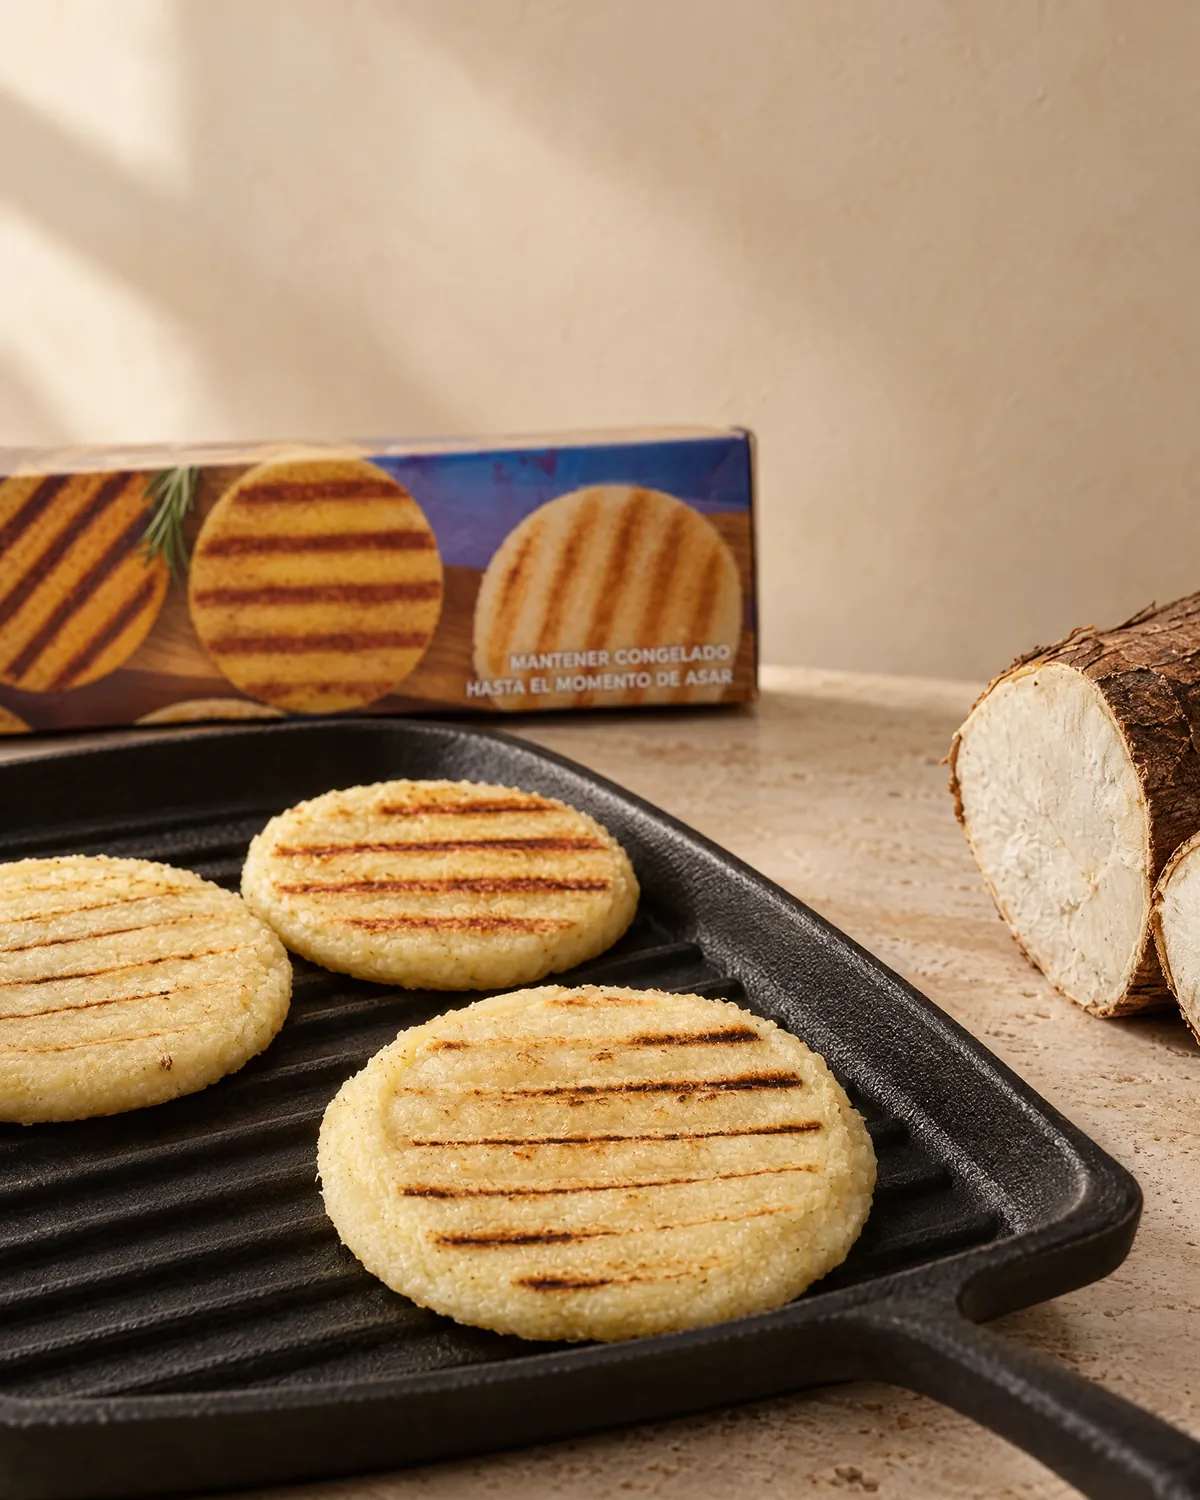
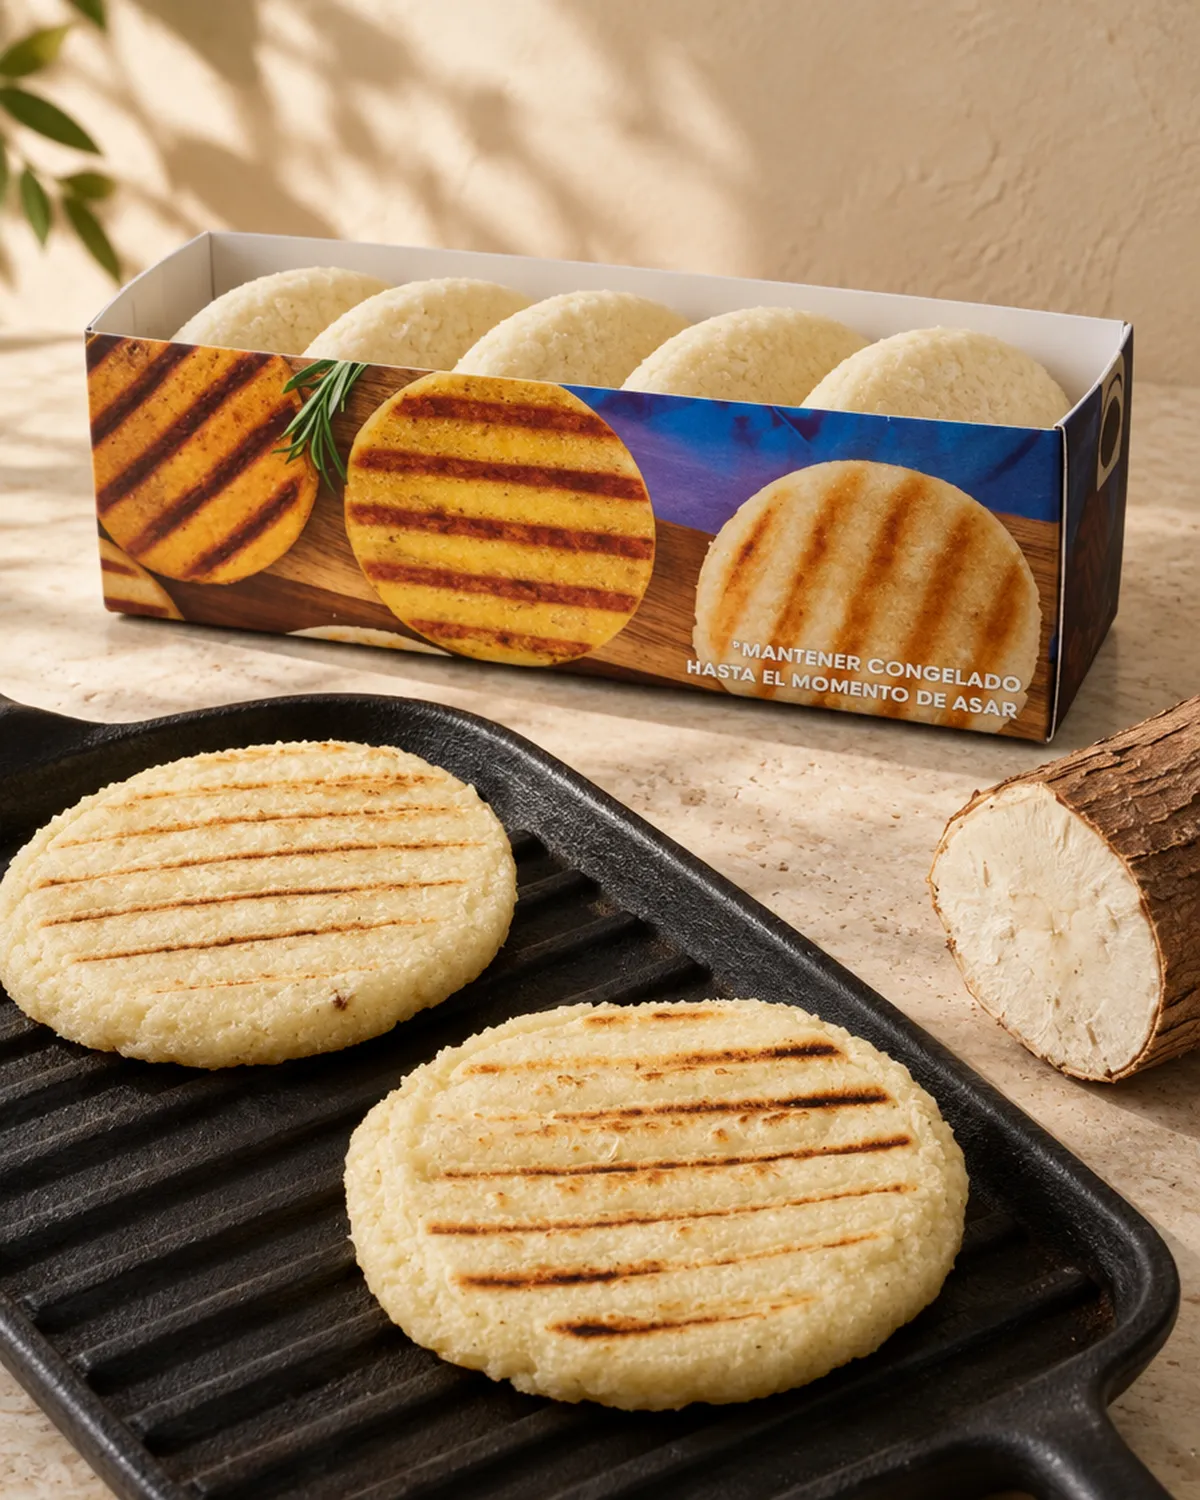
Fix the arepa packs, refresh the menu photos and tone down the address
- The arepa photos now show the real pack: an open white tray with the
  raw arepas inside and the printed sleeve around it, not a closed box.
- The products menu shows each product's studio shot and loads its
  photos right away, so no tile opens empty.
- 'De nuestra cocina' becomes 'Para cada antojo'.
- La Chorrera is no longer pitched in the hero, the footer headline or
  the meta description; the plant address sits in the footer's small
  print instead.

Claude-Session: https://claude.ai/code/session_01GmmAWFHkteyoXDuRLpatpS

diff --git a/fresh-lovers/src/components/Header.tsx b/fresh-lovers/src/components/Header.tsx
@@ -8,6 +8,7 @@ import { Logo } from "./Logo";
 import { WhatsAppIcon, InstagramIcon, ArrowIcon } from "./Icons";
 import { ProductPhoto } from "./ProductPhoto";
 import { categories, products, type CategorySlug, type Product } from "@/data/catalog";
+import type { PhotoKey } from "@/data/photos";
 import { instagramLink, site, whatsappLink } from "@/data/site";
 
 const EASE = [0.16, 1, 0.3, 1] as const;
@@ -21,7 +22,7 @@ const inCategory = (slug: CategorySlug) => products.filter((p) => p.category ===
 
 /* ───────────────────────── desktop mega menu ───────────────────────── */
 
-type Card = { key: string; href: string; product: Product; variant: number; title: string; sub: string };
+type Card = { key: string; href: string; product: Product; variant: number; title: string; sub: string; photo?: PhotoKey };
 
 /** How a category opens in the menu:
  *  - "lines": several product lines with flavours (Yogurt) → extra column of lines, flavours on the right
@@ -50,6 +51,7 @@ const productCards = (list: Product[]): Card[] =>
     href: `/productos/${p.slug}`,
     product: p,
     variant: 0,
+    photo: p.image,
     title: p.name,
     sub: p.variants.length > 1 ? `${p.variants.length} sabores / variedades` : p.sizes[0],
   }));
@@ -162,7 +164,9 @@ function MegaMenu({ active, setActive, close }: { active: CategorySlug; setActiv
                     <ProductPhoto
                       product={c.product}
                       variant={c.variant}
+                      photo={c.photo}
                       fill
+                      eager
                       sizes="200px"
                       className="transition-transform duration-700 ease-[var(--ease-out)] group-hover:scale-[1.06]"
                     />
@@ -402,7 +406,7 @@ export function Header() {
                                   <li key={p.slug}>
                                     <Link href={`/productos/${p.slug}`} onClick={closeAll} className="flex items-center gap-3 py-2">
                                       <span className="relative block h-12 w-12 shrink-0 overflow-hidden rounded-xl" style={{ backgroundColor: c.bg }}>
-                                        <ProductPhoto product={p} fill sizes="48px" />
+                                        <ProductPhoto product={p} photo={p.image} fill eager sizes="48px" />
                                       </span>
                                       <span className="text-[0.98rem] text-paper/90">{p.name}</span>
                                     </Link>

diff --git a/fresh-lovers/src/components/ProductPhoto.tsx b/fresh-lovers/src/components/ProductPhoto.tsx
@@ -17,6 +17,8 @@ type Props = {
   className?: string;
   sizes?: string;
   priority?: boolean;
+  /** load right away instead of when scrolled near (menus open instantly) */
+  eager?: boolean;
   /** fill the parent box (parent must be positioned) */
   fill?: boolean;
   /** show this photo instead of the variant/product default */
@@ -29,7 +31,7 @@ export function shotsFor(p: Product, variant = 0): PhotoKey[] {
   return [...new Set([v?.photo, p.image].filter((k): k is PhotoKey => !!k))];
 }
 
-export function ProductPhoto({ product: p, variant = 0, className = "", sizes = "(min-width: 768px) 33vw, 80vw", priority, fill, photo }: Props) {
+export function ProductPhoto({ product: p, variant = 0, className = "", sizes = "(min-width: 768px) 33vw, 80vw", priority, eager, fill, photo }: Props) {
   const ph = photo ? { ...photos[photo], kind: "photo" as const } : photoFor(p, variant);
   if (!ph) return null;
   const v = p.variants[Math.min(variant, p.variants.length - 1)];
@@ -37,8 +39,8 @@ export function ProductPhoto({ product: p, variant = 0, className = "", sizes = 
   // label art (Yogurt Griego) is shown whole on its colour; photos fill the frame
   const fit = ph.kind === "label" ? "object-contain p-[8%]" : "object-cover";
   return fill ? (
-    <Image src={ph.src} alt={alt} fill sizes={sizes} priority={priority} className={`${fit} ${className}`} />
+    <Image src={ph.src} alt={alt} fill sizes={sizes} priority={priority} loading={eager && !priority ? "eager" : undefined} className={`${fit} ${className}`} />
   ) : (
-    <Image src={ph.src} alt={alt} width={ph.w} height={ph.h} sizes={sizes} priority={priority} className={`${fit} ${className}`} />
+    <Image src={ph.src} alt={alt} width={ph.w} height={ph.h} sizes={sizes} priority={priority} loading={eager && !priority ? "eager" : undefined} className={`${fit} ${className}`} />
   );
 }

diff --git a/fresh-lovers/src/components/Footer.tsx b/fresh-lovers/src/components/Footer.tsx
@@ -7,9 +7,8 @@ export function Footer() {
     <footer className="relative overflow-hidden bg-ink text-paper">
       <div className="gutter grid gap-12 pb-10 pt-20 md:grid-cols-12 md:pt-28">
         <div className="md:col-span-5">
-          <p className="kicker text-paper/50">— {site.tagline} —</p>
-          <p className="font-display mt-6 max-w-md text-3xl leading-tight md:text-4xl">
-            Hecho en La Chorrera. <em>Desde {site.since}.</em>
+          <p className="font-display max-w-md text-3xl leading-tight md:text-4xl">
+            Yogurt, quesos, labne y arepas. <em>Calidad y sabor.</em>
           </p>
         </div>
         <nav aria-label="Categorías" className="md:col-span-3">
@@ -43,14 +42,6 @@ export function Footer() {
               </a>
             </li>
           </ul>
-          <p className="kicker mb-3 mt-8 text-paper/50">Planta</p>
-          <address className="text-[0.95rem] not-italic text-paper/85">
-            {site.legalName}
-            <br />
-            {site.plant.line1}
-            <br />
-            {site.plant.line2}
-          </address>
         </div>
       </div>
 
@@ -63,7 +54,7 @@ export function Footer() {
 
       <div className="gutter flex flex-col gap-2 border-t border-paper/10 py-6 pb-24 text-xs text-paper/50 md:flex-row md:items-center md:justify-between md:pb-6">
         <p>
-          © {new Date().getFullYear()} {site.legalName} · Panamá
+          © {new Date().getFullYear()} {site.legalName} · {site.plant.line1}, {site.plant.line2}
         </p>
         <p>Kashrut bajo supervisión de {site.kashrut} · בס״ד</p>
       </div>

diff --git a/fresh-lovers/src/app/layout.tsx b/fresh-lovers/src/app/layout.tsx
@@ -27,7 +27,7 @@ export const metadata: Metadata = {
     template: "%s · Fresh Lovers Panamá",
   },
   description:
-    "Yogurt griego, quesos frescos, labne, arepas, granola y café artesanal hechos en La Chorrera, Panamá, desde 2018. Productos kosher bajo supervisión de Shevet Ahim.",
+    "Yogurt griego, quesos frescos, labne, arepas, granola y café artesanal. Productos kosher bajo supervisión de Shevet Ahim.",
   applicationName: "Fresh Lovers",
   keywords: ["Fresh Lovers", "yogurt griego Panamá", "labne", "quesos frescos", "arepas", "kosher Panamá", "Jalav Israel"],
   alternates: { canonical: "/" },

diff --git a/fresh-lovers/src/components/home/Hero.tsx b/fresh-lovers/src/components/home/Hero.tsx
@@ -185,7 +185,7 @@ export function Hero() {
           transition={{ delay: 1, duration: 0.9, ease: EASE }}
           className="max-w-[22rem] text-[1.02rem] leading-snug text-ink-2 md:text-[1.05rem]"
         >
-          Yogurt griego, labne, quesos frescos, arepas y café. Hechos en La Chorrera, Panamá, desde {site.since}.
+          Yogurt griego, labne, quesos frescos, arepas, granola y café.
         </motion.p>
 
         <div className="hidden justify-center md:flex">

diff --git a/fresh-lovers/src/components/home/ProductReel.tsx b/fresh-lovers/src/components/home/ProductReel.tsx
@@ -100,7 +100,7 @@ export function ProductReel() {
         <div>
           <p className="kicker text-ink/55">Productos · desliza →</p>
           <h2 id="reel-title" className="font-display mt-2 text-[12vw] leading-[0.85] tracking-[-0.02em] md:text-[5.6vw]">
-            De nuestra <em>cocina</em>
+            Para cada <em>antojo</em>
           </h2>
         </div>
         <div className="flex shrink-0 items-center gap-3">
